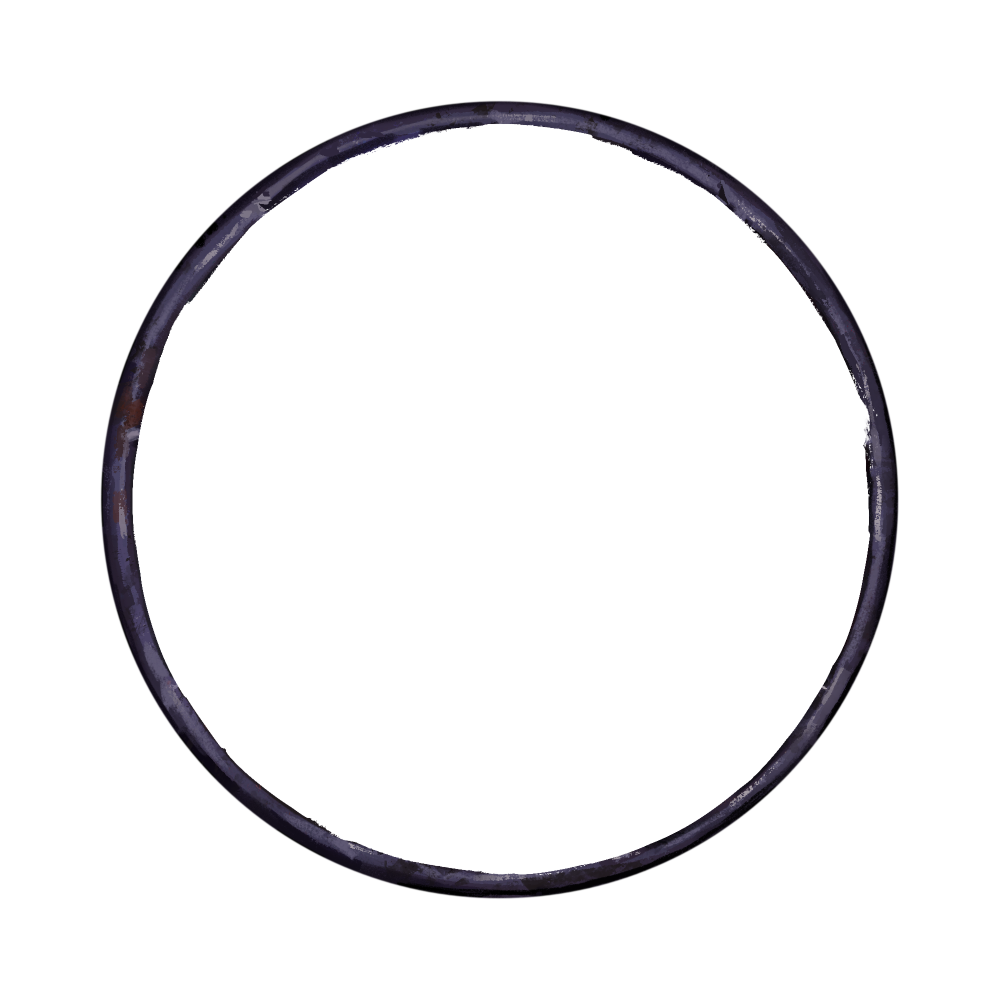
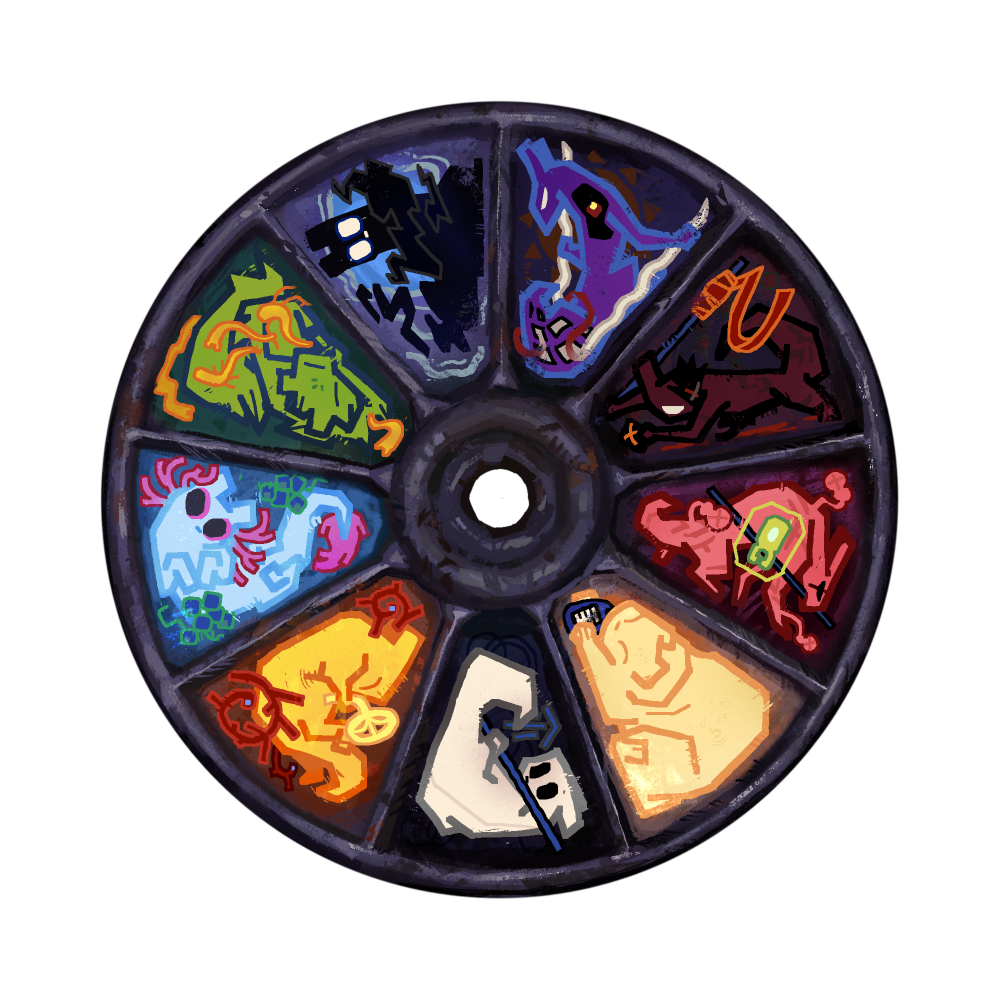
sprite update + rim changed to full interior with cutout

diff --git a/animationsConfig.js b/animationsConfig.js
@@ -1,12 +1,17 @@
 const Animations = [
-    { animation: "animations\\test.gif", audio: new Audio(""), timeToPin: 5000, pinAngle: 90 },
-    { animation: "animations\\artificer2.gif", audio: new Audio("animations\\artificer2.flac"), timeToPin: 3300, pinAngle: 93.33 },
-    { animation: "animations\\hunter.gif", audio: new Audio("animations\\hunter.flac"), timeToPin: 3100, pinAngle: 84.5 },
-    { animation: "animations\\survivor.gif", audio: new Audio("animations\\survivor.flac"), timeToPin: 2200, pinAngle: 84.5 },
-    { animation: "animations\\monk.gif", audio: new Audio("animations\\monk.flac"), timeToPin: 10000, pinAngle: 93.33 },
-    { animation: "animations\\watcher.gif", audio: new Audio("animations\\watcher.flac"), timeToPin: 6150, pinAngle: 84.5 },
-    { animation: "animations\\gourmand.gif", audio: new Audio("animations\\gourmand.flac"), timeToPin: 3600, pinAngle: 93.33 },
-    { animation: "animations\\handstand.gif", audio: new Audio("animations\\handstand.flac"), timeToPin: 6200, pinAngle: 93.33 },
-    { animation: "animations\\wigglefly.gif", audio: new Audio("animations\\wigglefly.flac"), timeToPin: 7200, pinAngle: 93.33 },
-    { animation: "animations\\blueLiz.gif", audio: new Audio("animations\\blueLiz.flac"), timeToPin: 13850, pinAngle: 93.33 },
+    { animation: "animations\\test.gif", audio: new Audio(""), timeToPin: 5000, pinPos: "down" },
+    { animation: "animations\\artificer2.gif", audio: new Audio("animations\\artificer2.flac"), timeToPin: 3300, pinPos: "down" },
+    { animation: "animations\\hunter.gif", audio: new Audio("animations\\hunter.flac"), timeToPin: 3100, pinPos: "up" },
+    { animation: "animations\\survivor.gif", audio: new Audio("animations\\survivor.flac"), timeToPin: 2200, pinPos: "up" },
+    { animation: "animations\\monk.gif", audio: new Audio("animations\\monk.flac"), timeToPin: 10000, pinPos: "down" },
+    { animation: "animations\\watcher.gif", audio: new Audio("animations\\watcher.flac"), timeToPin: 6150, pinPos: "up" },
+    { animation: "animations\\gourmand.gif", audio: new Audio("animations\\gourmand.flac"), timeToPin: 3600, pinPos: "down" },
+    { animation: "animations\\handstand.gif", audio: new Audio("animations\\handstand.flac"), timeToPin: 6200, pinPos: "down" },
+    { animation: "animations\\wigglefly.gif", audio: new Audio("animations\\wigglefly.flac"), timeToPin: 7200, pinPos: "down" },
+    { animation: "animations\\blueLiz.gif", audio: new Audio("animations\\blueLiz.flac"), timeToPin: 13850, pinPos: "down" },
 ]
+
+const PinInfos = {
+    "down": {angle:93.33},
+    "up": {angle:84.5},
+}

diff --git a/ScugWheel.css b/ScugWheel.css
@@ -33,6 +33,14 @@
     position: relative;
 }
 
+#over.down {
+    clip-path: polygon(0 0, 100% 0, 100% 51.64%, 85% 51.64%, 85% 52.42%, 100% 52.42%, 100% 100%, 0 100%);
+}
+
+#over.up {
+    clip-path: polygon(0 0, 100% 0, 100% 46.24%, 85% 46.24%, 85% 47.02%, 100% 47.02%, 100% 100%, 0 100%);
+}
+
 #wheel canvas,
 #canvas {
     position: absolute;

diff --git a/ScugWheel.js b/ScugWheel.js
@@ -252,10 +252,11 @@ function spinWheel() {
   document.getElementById("wheel").removeAttribute("onclick");
   const pointerAnimation = Animations[1 + Math.floor(Math.random() * (Animations.length - 1))];
   //const pointerAnimation = Animations[9];
+  document.getElementById("over").setAttribute("class", pointerAnimation.pinPos);
   const pointerImg = document.createElement("img");
   pointerImg.id = "pointer-animation";
   pointerImg.src = pointerAnimation.animation + "?a=" + Math.random();
-  theWheel.pointerAngle = pointerAnimation.pinAngle;
+  theWheel.pointerAngle = PinInfos[pointerAnimation.pinPos].angle;
   setTimeout(() => {
     document.getElementById("canvas").after(pointerImg);
     pointerAnimation.audio.play();
@@ -333,7 +334,6 @@ function drawOverWheel () {
   overWheel.rotationAngle = theWheel.rotationAngle;
   let canvas = document.getElementById("over").getContext("2d");
   canvas.clearRect(0, 0, 1000, 1000);
-  canvas.beginPath();
   overWheel.draw(false);
 }
 